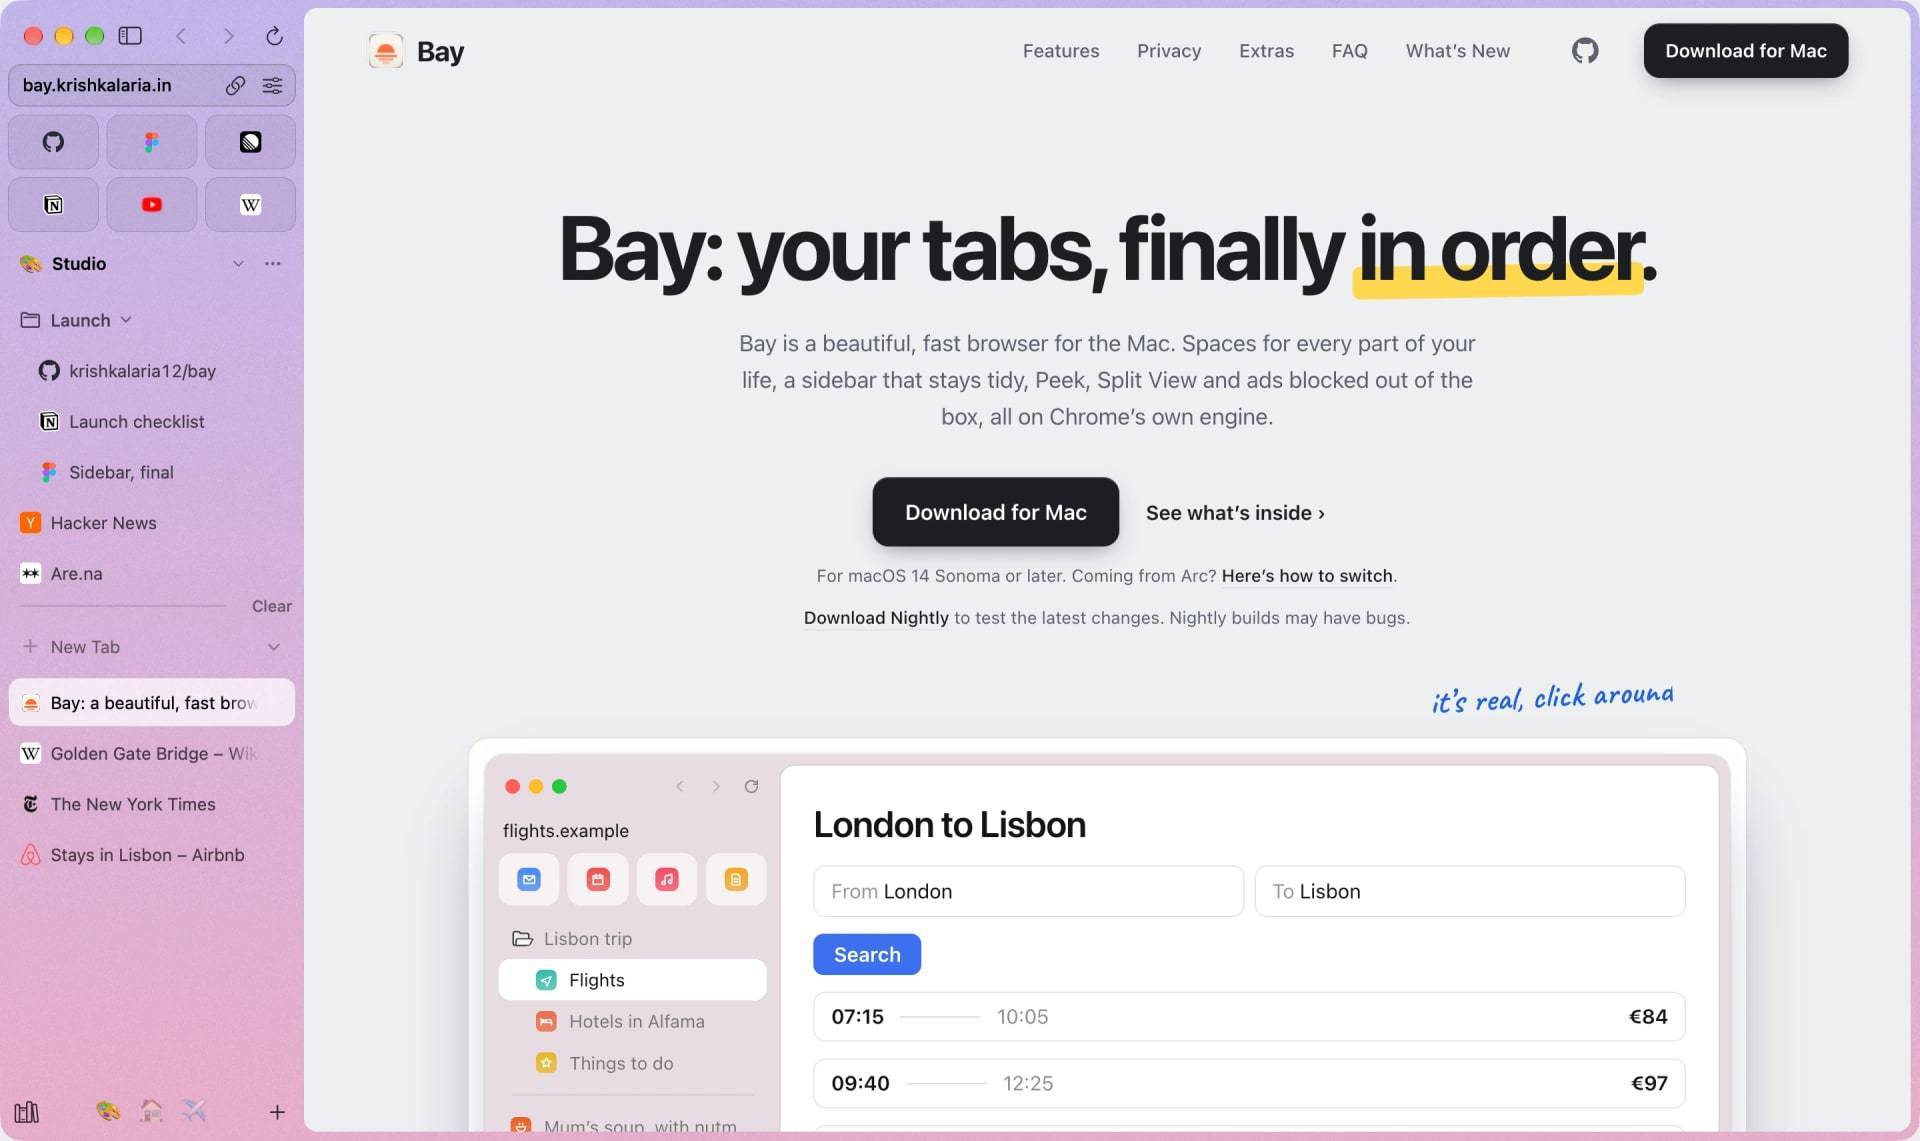
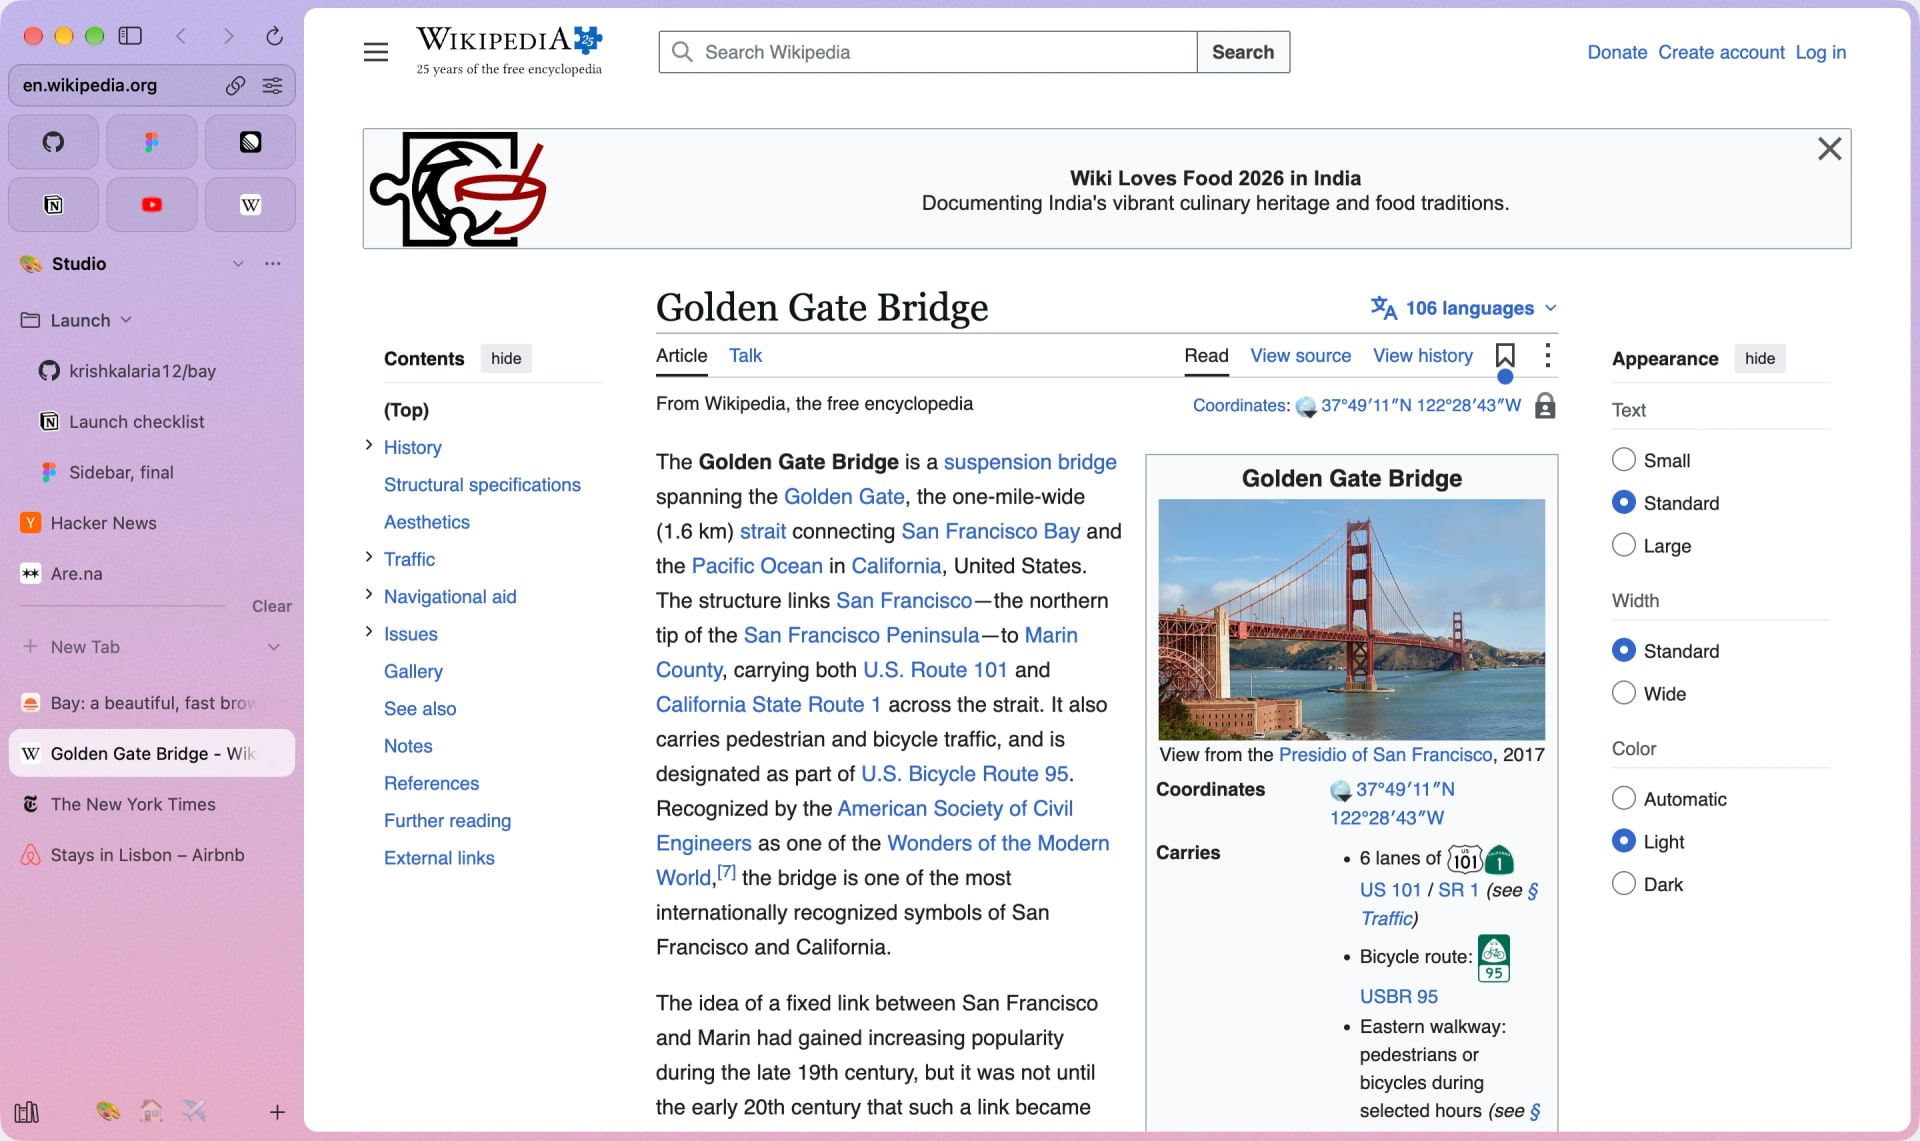
docs(web): retake the hero on a wikipedia page, with the cover and social card

diff --git a/apps/web/src/site.ts b/apps/web/src/site.ts
@@ -18,7 +18,7 @@ export const site = {
 
 /** The hero's screenshot: public/screenshots has its stable copy, for search engines (scripts/shots). */
 export const heroShotAlt =
-  "The Bay browser for Mac in a violet and pink theme: favorites, a Launch folder of pinned tabs and today's tabs in the sidebar, beside the Bay website";
+  "The Bay browser for Mac in a violet and pink theme: favorites, a Launch folder of pinned tabs and today's tabs in the sidebar, beside Wikipedia's Golden Gate Bridge article";
 
 export const heroShotUrl = `${site.url}/screenshots/bay-browser-for-mac.jpg`;
 
